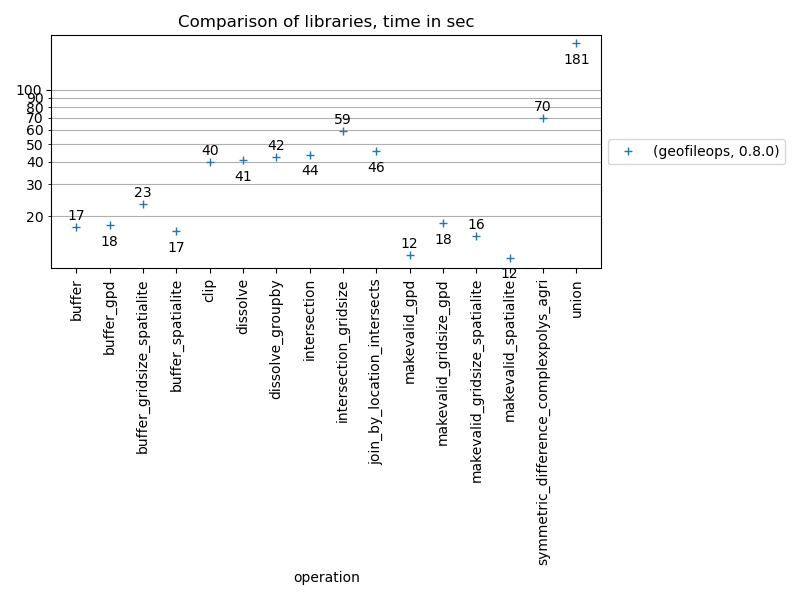
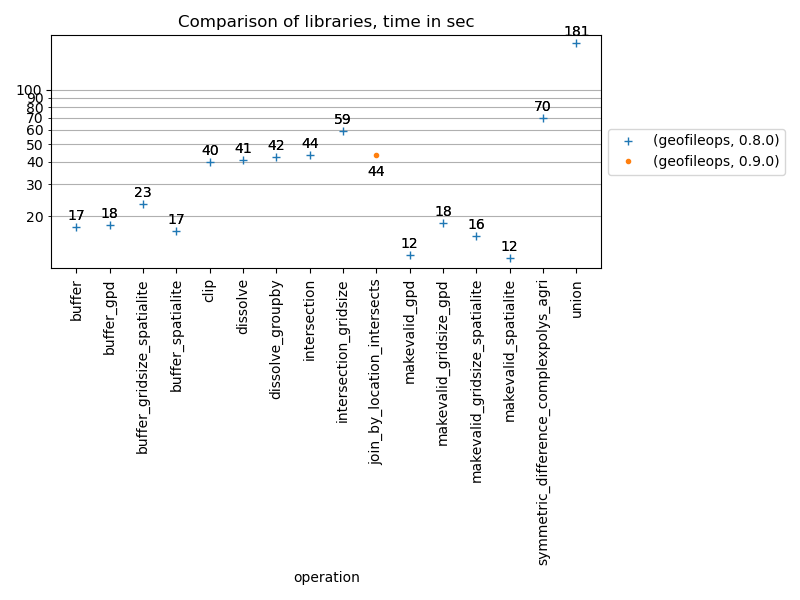
ENH: improve performance of join_by_location for relation "intersects is True" (#504)

diff --git a/geofileops/util/_geoops_sql.py b/geofileops/util/_geoops_sql.py
@@ -1557,7 +1557,7 @@ def join_by_location(
             area_inters_column_name_touse = "area_inters"
         area_inters_column_expression = (
             ",ST_area(ST_intersection(sub_filter.geom, sub_filter.l2_geom)) "
-            f'as "{area_inters_column_name_touse}"'
+            f'AS "{area_inters_column_name_touse}"'
         )
         if min_area_intersect is not None:
             area_inters_filter = (
@@ -1565,12 +1565,8 @@ def join_by_location(
                 f">= {min_area_intersect}"
             )
 
-    # Prepare spatial relations filter
-    if spatial_relations_query != "intersects is True":
-        # joining should only be possible on features that at least have an
-        # interaction! So, add "intersects is True" to query to avoid errors!
-        spatial_relations_query = f"({spatial_relations_query}) and intersects is True"
-    spatial_relations_filter = _prepare_spatial_relations_filter(
+    # Prepare spatial relation column and filter
+    spatial_relation_column, spatial_relation_filter = _prepare_join_by_location_fields(
         spatial_relations_query
     )
 
@@ -1593,10 +1589,7 @@ def join_by_location(
                         ,layer2.{{input2_geometrycolumn}} AS l2_geom
                         {{layer1_columns_prefix_alias_str}}
                         {{layer2_columns_prefix_alias_str}}
-                        ,ST_relate(
-                            layer1.{{input1_geometrycolumn}},
-                            layer2.{{input2_geometrycolumn}}
-                         ) AS "GFO_$TEMP$_SPATIAL_RELATION"
+                        {spatial_relation_column}
                     FROM {{input1_databasename}}."{{input1_layer}}" layer1
                     JOIN {{input1_databasename}}."{input1_layer_rtree}" layer1tree
                       ON layer1.fid = layer1tree.id
@@ -1611,11 +1604,11 @@ def join_by_location(
                      AND layer1tree.maxy >= layer2tree.miny
                    LIMIT -1 OFFSET 0
                   ) sub_filter
-               WHERE {spatial_relations_filter.format(
-                    spatial_relation='sub_filter."GFO_$TEMP$_SPATIAL_RELATION"')}
+               WHERE {spatial_relation_filter}
                LIMIT -1 OFFSET 0
               ) sub_area
            {area_inters_filter}
+           LIMIT -1 OFFSET 0
           )
         SELECT sub.geom
               {{layer1_columns_from_subselect_str}}
@@ -1664,6 +1657,35 @@ def join_by_location(
         batchsize=batchsize,
         force=force,
     )
+
+
+def _prepare_join_by_location_fields(query) -> Tuple[str, str]:
+    # Add a specific optimisation for "intersects is True" as it is the most used
+    # filtering and it is very optimised in GEOS.
+    if query.lower() == "intersects is true":
+        spatial_relation_column = """
+            ,ST_intersects(
+                layer1.{input1_geometrycolumn},
+                layer2.{input2_geometrycolumn}
+             ) AS "GFO_$TEMP$_SPATIAL_RELATION"
+        """
+        spatial_relation_filter = 'sub_filter."GFO_$TEMP$_SPATIAL_RELATION" = 1'
+    else:
+        # joining should only be possible on features that at least have an
+        # interaction! So, add "intersects is True" to query to avoid errors!
+        query = f"({query}) and intersects is True"
+        spatial_relations_filter = _prepare_spatial_relations_filter(query)
+        spatial_relation_column = """
+            ,ST_relate(
+                layer1.{input1_geometrycolumn},
+                layer2.{input2_geometrycolumn}
+             ) AS "GFO_$TEMP$_SPATIAL_RELATION"
+        """
+        spatial_relation_filter = spatial_relations_filter.format(
+            spatial_relation='sub_filter."GFO_$TEMP$_SPATIAL_RELATION"'
+        )
+
+    return (spatial_relation_column, spatial_relation_filter)
 
 
 def _prepare_spatial_relations_filter(query: str) -> str:

diff --git a/benchmark/benchmark_geofileops.py b/benchmark/benchmark_geofileops.py
@@ -4,7 +4,8 @@ from benchmark import benchmarker
 def main():
     # Run the benchmark function(s)
     functions_to_run = [
-        "clip",
+        "join_by_location_intersects",
+        #"clip",
         # "intersection",
         # "intersection_complexpoly_agri",
         # "intersection_gridsize",

diff --git a/CHANGELOG.md b/CHANGELOG.md
@@ -6,6 +6,7 @@
 
 - Add support for self-overlays in overlay operations (#468)
 - Improve `dissolve_within_distance` results (#494)
+- Improve performance of `join_by_location` for relation "intersects is True" (#502)
 - Add configuration option GFO_REMOVE_TEMP_FILES that can be used to avoid temp files
   being removed for debugging purposes (#480)
 - Add a context manager, TempEnv, to set temporary env variables (#481)
